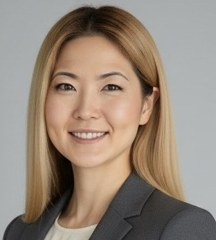
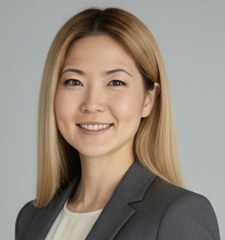
Auto-update family tree data

diff --git a/family-tree/data/tree.js b/family-tree/data/tree.js
@@ -19109,7 +19109,7 @@ window.TREE_DATA = {
    "children": [],
    "provisional": false,
    "note": "Chief Algorithms Officer at Amptron Medical",
-   "bio": "Leads the development of AI-powered autonomous medical technologies for critical care."
+   "bio": "Leads AI innovation in autonomous medical technologies for critical care."
   },
   {
    "id": "yu-shu-wen",